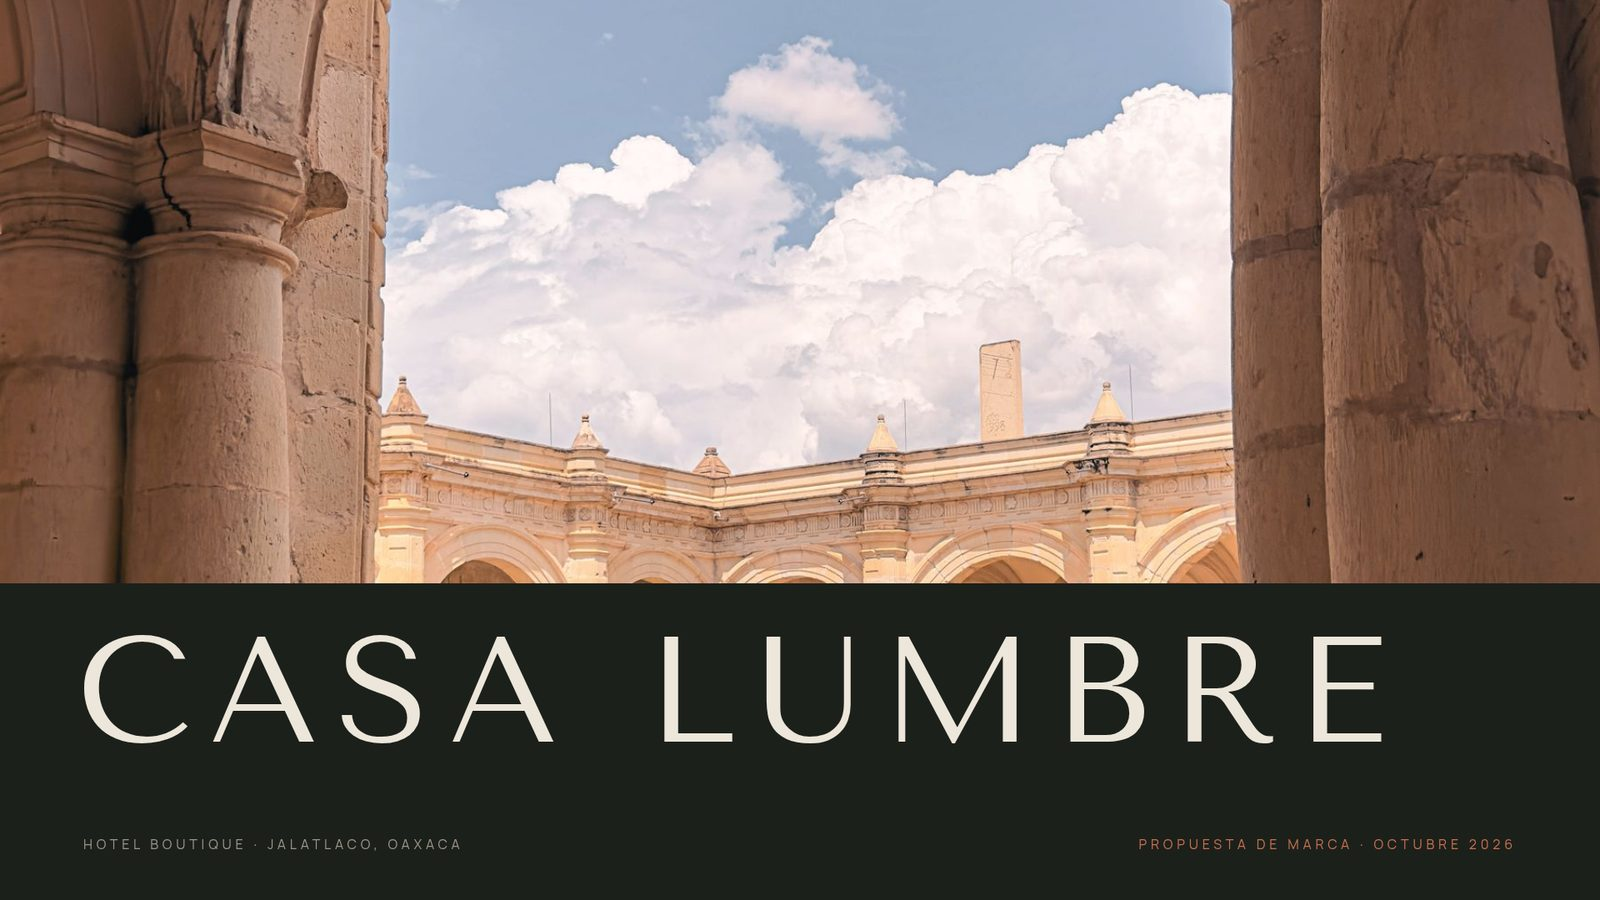
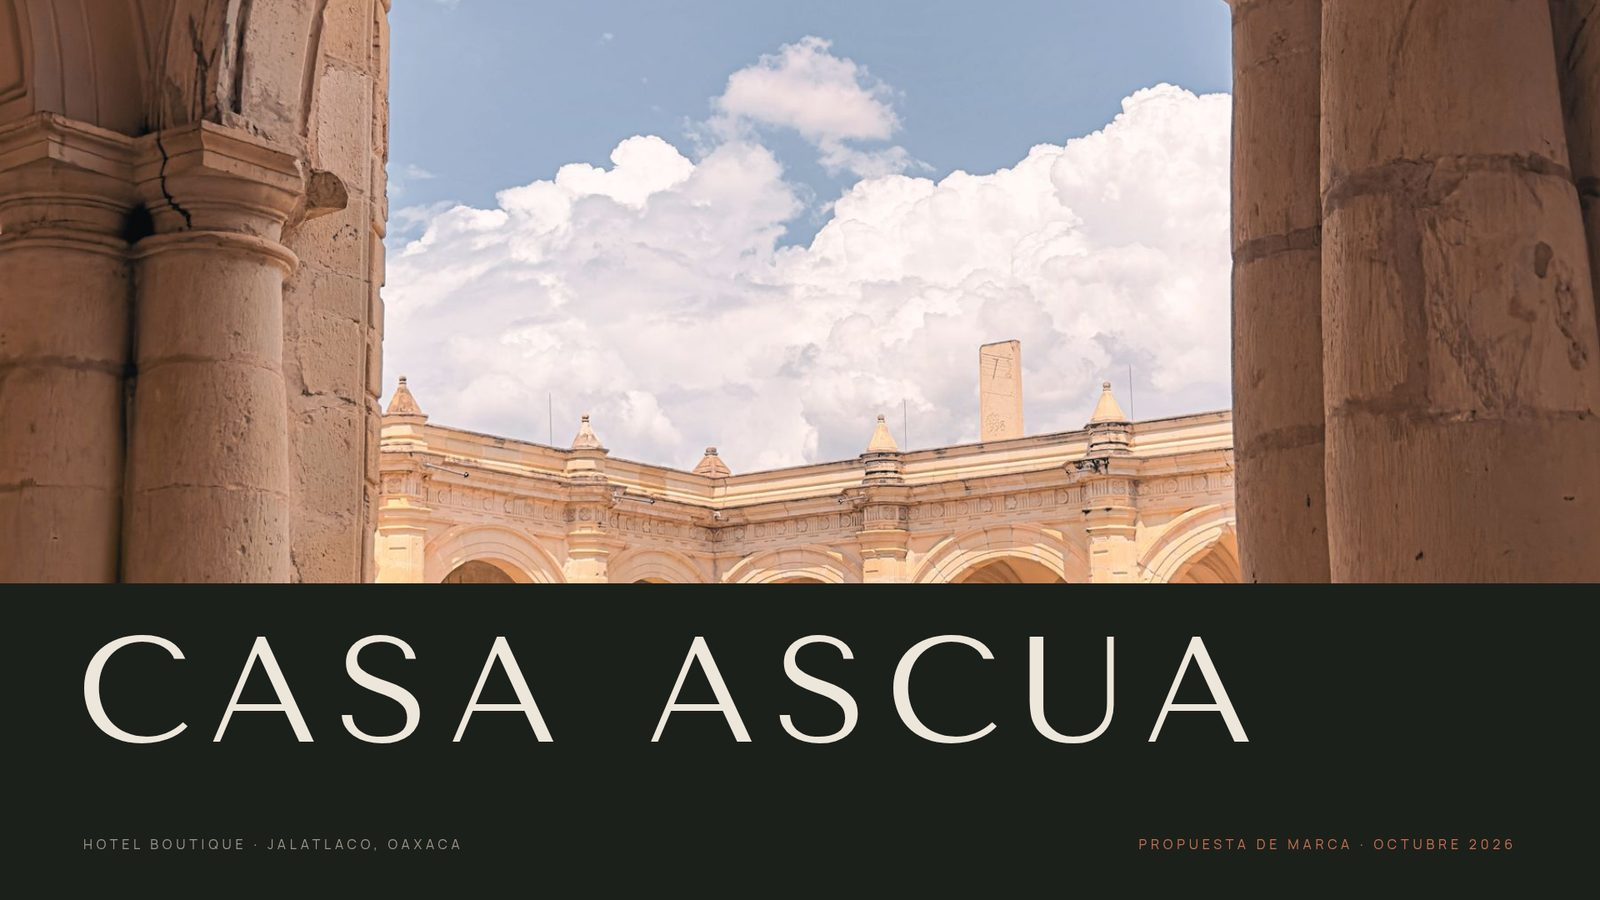
Update portfolio case slides and work page.
Replace img/cases C and E slides and work.html with the latest site build.

Changed region(s): [[0.4062, 0.6844, 0.875, 0.84]]

diff --git a/work.html b/work.html
@@ -83,7 +83,7 @@
 <section class="modal" id="p16"><span class="cnt" aria-hidden="true"></span><div class="mbox"><a class="close" href="#work">Close ✕</a><p class="lbl">(17) Project</p><h3>Manifiestos, visiones de la arquitectura</h3><dl><dt>Role</dt><dd>Editorial design</dd><dt>Client / Publisher</dt><dd>UDLAP</dd><dt>Year</dt><dd>2021</dd></dl><p class="desc">A collective “manifesto of manifestos”: texts between reflection and practice by architects, academics and researchers. Authors: Eduardo Gutiérrez Juárez, Melissa Schumacher González, Anne Kristiina Kurjenoja Lounassaari.</p><div class="gal"><div class="ph tall"><span>Project images to be added</span></div></div></div></section>
 <section class="modal case-m" id="c0"><span class="cnt" aria-hidden="true"></span><div class="mbox"><a class="close" href="#presentations">Close ✕</a><p class="lbl">Presentation case study</p><h3>Entering Mexico, one region at a time</h3><dl><dt>Client</dt><dd>Norvale Foods × Ashcombe Lane Partners</dd><dt>Industry</dt><dd>Consumer goods · Market entry</dd><dt>Deck</dt><dd>Board discussion document</dd><dt>Role</dt><dd>Presentation design</dd></dl><div class="cs3"><div><h4>Challenge</h4><p>A premium pantry brand&#x27;s board wanted to launch across all of Mexico at once. The analysis behind the deck pointed the other way: premium demand is concentrated, and going it alone would be slow and capital-heavy.</p></div><div><h4>Approach</h4><p>A classic editorial deck — Cormorant Garamond and Inter on cream, black and olive — that leads with three ideas, then walks the board through a four-phase roadmap (Prove, Expand, Scale, Lead), a single-photo divider and a regional comparison table.</p></div><div><h4>Outcome</h4><p>The story is built to one decision: approve a phased entry with a distribution partner. In the deck&#x27;s narrative, three metros hold 61% of the premium market and a partner cuts time-to-shelf from 22 to 9 months.</p></div></div><div class="gal"><img src="img/cases/A1.jpg" alt="Entering Mexico, one region at a time — slide 1" loading="lazy"><img src="img/cases/A2.jpg" alt="Entering Mexico, one region at a time — slide 2" loading="lazy"><img src="img/cases/A3.jpg" alt="Entering Mexico, one region at a time — slide 3" loading="lazy"><img src="img/cases/A4.jpg" alt="Entering Mexico, one region at a time — slide 4" loading="lazy"><img src="img/cases/A5.jpg" alt="Entering Mexico, one region at a time — slide 5" loading="lazy"></div><ul class="credits mono"><li>A1 — <a href="https://www.pexels.com/photo/white-building-wall-15941894/" target="_blank" rel="noopener">Dante Muñoz</a> / Pexels</li><li>A4 — <a href="https://www.pexels.com/photo/building-facade-with-balconies-15573067/" target="_blank" rel="noopener">Jonathan Santiago</a> / Pexels</li></ul></div></section>
 <section class="modal case-m" id="c1"><span class="cnt" aria-hidden="true"></span><div class="mbox"><a class="close" href="#presentations">Close ✕</a><p class="lbl">Presentation case study</p><h3>Annual Report 2025</h3><dl><dt>Client</dt><dd>Fenwyck Trust</dd><dt>Industry</dt><dd>Philanthropy · Libraries</dd><dt>Deck</dt><dd>Annual report for donors</dd><dt>Role</dt><dd>Presentation design</dd></dl><div class="cs3"><div><h4>Challenge</h4><p>A foundation that funds community libraries had its best year yet and needed a report for donors and partners that felt clear and confident — not like a charity brochure.</p></div><div><h4>Approach</h4><p>A Swiss/modern system: Inter Tight only, white, black and a muted red, with a visible six-column grid. Big numbers first, a ten-year giving chart, one library story with a librarian&#x27;s quote, and a use-of-funds breakdown with next year&#x27;s goals.</p></div><div><h4>Outcome</h4><p>A report that reads in a minute and holds up on a second look. Within the deck&#x27;s story: 412 libraries in 9 countries, 1.8M books in circulation and $12.4M granted in 2025.</p></div></div><div class="gal"><img src="img/cases/B1.jpg" alt="Annual Report 2025 — slide 1" loading="lazy"><img src="img/cases/B2.jpg" alt="Annual Report 2025 — slide 2" loading="lazy"><img src="img/cases/B3.jpg" alt="Annual Report 2025 — slide 3" loading="lazy"><img src="img/cases/B4.jpg" alt="Annual Report 2025 — slide 4" loading="lazy"><img src="img/cases/B5.jpg" alt="Annual Report 2025 — slide 5" loading="lazy"></div><ul class="credits mono"><li>B1 — <a href="https://www.pexels.com/photo/geometric-marble-shelf-with-books-and-decorative-vase-4207791/" target="_blank" rel="noopener">Kaboompics</a> / Pexels</li><li>B4 — <a href="https://www.pexels.com/photo/books-chairs-interior-library-6333736/" target="_blank" rel="noopener">cottonbro studio</a> / Pexels</li><li>B4 — <a href="https://www.pexels.com/photo/young-girl-reading-a-book-in-a-library-36859107/" target="_blank" rel="noopener">Thang Nguyen</a> / Pexels</li></ul></div></section>
-<section class="modal case-m" id="c2"><span class="cnt" aria-hidden="true"></span><div class="mbox"><a class="close" href="#presentations">Close ✕</a><p class="lbl">Presentation case study</p><h3>Brand proposal</h3><dl><dt>Client</dt><dd>Casa Ascua</dd><dt>Industry</dt><dd>Hospitality · Boutique hotel</dd><dt>Deck</dt><dd>Branding proposal</dd><dt>Role</dt><dd>Presentation design</dd></dl><div class="cs3"><div><h4>Challenge</h4><p>A 12-room 19th-century house in Jalatlaco, Oaxaca, reopening in April 2027 under a forgettable name, competing on price and depending on booking platforms.</p></div><div><h4>Approach</h4><p>A dark, contemporary deck — Tenor Sans and Manrope on near-black green, clay and cream — that moves from concept (&quot;the fire is shared, cared for and inherited&quot;) to the challenge in numbers, four guest moments, and a clear scope, timeline and investment.</p></div><div><h4>Outcome</h4><p>Designed to get owners to approve scope and budget in one meeting: five deliverables over 16 weeks, with the brand story doing the selling. Figures (68% occupancy, 74% via platforms) are part of the brief.</p></div></div><div class="gal"><img src="img/cases/C1.jpg" alt="Brand proposal — slide 1" loading="lazy"><img src="img/cases/C2.jpg" alt="Brand proposal — slide 2" loading="lazy"><img src="img/cases/C3.jpg" alt="Brand proposal — slide 3" loading="lazy"><img src="img/cases/C4.jpg" alt="Brand proposal — slide 4" loading="lazy"><img src="img/cases/C5.jpg" alt="Brand proposal — slide 5" loading="lazy"></div><ul class="credits mono"><li>C1 — <a href="https://www.pexels.com/photo/architecture-with-arcades-on-a-sunny-day-18620515/" target="_blank" rel="noopener">Diego Rendon</a> / Pexels</li><li>C2 — <a href="https://www.pexels.com/photo/historic-courtyard-of-santo-domingo-in-oaxaca-36944189/" target="_blank" rel="noopener">Diego Martinez</a> / Pexels</li><li>C4 — <a href="https://www.pexels.com/photo/window-in-hotel-bedroom-5475923/" target="_blank" rel="noopener">Egor Kunovsky</a> / Pexels</li></ul></div></section>
+<section class="modal case-m" id="c2"><span class="cnt" aria-hidden="true"></span><div class="mbox"><a class="close" href="#presentations">Close ✕</a><p class="lbl">Presentation case study</p><h3>Brand proposal</h3><dl><dt>Client</dt><dd>Casa Ascua</dd><dt>Industry</dt><dd>Hospitality · Boutique hotel</dd><dt>Deck</dt><dd>Branding proposal</dd><dt>Role</dt><dd>Presentation design</dd></dl><div class="cs3"><div><h4>Challenge</h4><p>A 12-room 19th-century house in Jalatlaco, Oaxaca, reopening in April 2027 under a forgettable name, competing on price and depending on booking platforms.</p></div><div><h4>Approach</h4><p>A dark, contemporary deck — Tenor Sans and Manrope on near-black green, clay and cream — that moves from concept (&quot;here the ember never goes out: it is shared, cared for and inherited&quot;) to the challenge in numbers, four guest moments, and a clear scope, timeline and investment.</p></div><div><h4>Outcome</h4><p>Designed to get owners to approve scope and budget in one meeting: five deliverables over 16 weeks, with the brand story doing the selling. Figures (68% occupancy, 74% via platforms) are part of the brief.</p></div></div><div class="gal"><img src="img/cases/C1.jpg" alt="Brand proposal — slide 1" loading="lazy"><img src="img/cases/C2.jpg" alt="Brand proposal — slide 2" loading="lazy"><img src="img/cases/C3.jpg" alt="Brand proposal — slide 3" loading="lazy"><img src="img/cases/C4.jpg" alt="Brand proposal — slide 4" loading="lazy"><img src="img/cases/C5.jpg" alt="Brand proposal — slide 5" loading="lazy"></div><ul class="credits mono"><li>C1 — <a href="https://www.pexels.com/photo/architecture-with-arcades-on-a-sunny-day-18620515/" target="_blank" rel="noopener">Diego Rendon</a> / Pexels</li><li>C2 — <a href="https://www.pexels.com/photo/historic-courtyard-of-santo-domingo-in-oaxaca-36944189/" target="_blank" rel="noopener">Diego Martinez</a> / Pexels</li><li>C4 — <a href="https://www.pexels.com/photo/window-in-hotel-bedroom-5475923/" target="_blank" rel="noopener">Egor Kunovsky</a> / Pexels</li></ul></div></section>
 <section class="modal case-m" id="c3"><span class="cnt" aria-hidden="true"></span><div class="mbox"><a class="close" href="#presentations">Close ✕</a><p class="lbl">Presentation case study</p><h3>The Dune Collection</h3><dl><dt>Client</dt><dd>Ardel Ceramics</dd><dt>Industry</dt><dd>Craft · Home goods</dd><dt>Deck</dt><dd>Pre-sale deck for retailers</dd><dt>Role</dt><dd>Presentation design</dd></dl><div class="cs3"><div><h4>Challenge</h4><p>A hand-thrown stoneware studio in Porto launching its first collection to multi-brand stores — without losing its handmade character or competing on price.</p></div><div><h4>Approach</h4><p>A light geometric sans (Outfit) over large fields of deep blue, stone and sand. One bold statement (&quot;Made slower.&quot;), the six pieces with retail prices and glazes, a year-one forecast by channel, and dated next steps.</p></div><div><h4>Outcome</h4><p>A deck that ends with a clear ask: confirm opening orders before the deadline. In the deck&#x27;s story, 2,600 pre-orders and letters of intent from 14 stores support a 12,000-piece first year.</p></div></div><div class="gal"><img src="img/cases/D1.jpg" alt="The Dune Collection — slide 1" loading="lazy"><img src="img/cases/D2.jpg" alt="The Dune Collection — slide 2" loading="lazy"><img src="img/cases/D3.jpg" alt="The Dune Collection — slide 3" loading="lazy"><img src="img/cases/D4.jpg" alt="The Dune Collection — slide 4" loading="lazy"><img src="img/cases/D5.jpg" alt="The Dune Collection — slide 5" loading="lazy"></div><ul class="credits mono"><li>D1 — <a href="https://www.pexels.com/photo/leaf-in-a-handmade-vase-7302773/" target="_blank" rel="noopener">Cup of Couple</a> / Pexels</li><li>D2 — <a href="https://www.pexels.com/photo/elegant-minimalist-ceramic-vases-on-display-31493660/" target="_blank" rel="noopener">Raymond Petrik</a> / Pexels</li><li>D3 — <a href="https://www.pexels.com/photo/clay-vases-set-on-stone-table-17053588/" target="_blank" rel="noopener">Pexels</a> / Pexels</li></ul></div></section>
 <section class="modal case-m" id="c4"><span class="cnt" aria-hidden="true"></span><div class="mbox"><a class="close" href="#presentations">Close ✕</a><p class="lbl">Presentation case study</p><h3>Annual programme 2027</h3><dl><dt>Client</dt><dd>Museo Cerro Alto</dd><dt>Industry</dt><dd>Culture · Museum</dd><dt>Deck</dt><dd>Board proposal</dd><dt>Role</dt><dd>Presentation design</dd></dl><div class="cs3"><div><h4>Challenge</h4><p>An art museum in Monterrey whose audience growth slowed; the board asked for a plan to reach people who have never visited.</p></div><div><h4>Approach</h4><p>A light editorial deck — Newsreader serif with italics and IBM Plex Mono labels, sand and ink with no accent colour. A full-bleed photo statement (&quot;A museum isn&#x27;t visited: it&#x27;s inhabited&quot;), four exhibitions across the year, an audience chart and a budget split with key dates.</p></div><div><h4>Outcome</h4><p>Built for a board vote on programme and budget. Within the deck&#x27;s story, the goal is 110k visitors in 2027 (+17%) on an MXN 18.5M budget, with free Sundays as the headline move.</p></div></div><div class="gal"><img src="img/cases/E1.jpg" alt="Annual programme 2027 — slide 1" loading="lazy"><img src="img/cases/E2.jpg" alt="Annual programme 2027 — slide 2" loading="lazy"><img src="img/cases/E3.jpg" alt="Annual programme 2027 — slide 3" loading="lazy"><img src="img/cases/E4.jpg" alt="Annual programme 2027 — slide 4" loading="lazy"><img src="img/cases/E5.jpg" alt="Annual programme 2027 — slide 5" loading="lazy"></div><ul class="credits mono"><li>E1 — <a href="https://www.pexels.com/photo/exhibition-installation-in-a-white-interior-with-lamps-11892571/" target="_blank" rel="noopener">Erika Ortiz</a> / Pexels</li><li>E2 — <a href="https://www.pexels.com/photo/hall-in-an-art-gallery-17325394/" target="_blank" rel="noopener">Andrea De Santis</a> / Pexels</li></ul></div></section>
 <script>(function(){var T=["cream","white","black","blue"],C={cream:"#efebe3",white:"#fff",black:"#0b0b0b",blue:"#1f3bff"},b=document.querySelector(".tg"),r=document.documentElement;function n(){return T[(T.indexOf(r.dataset.theme)+1)%4]}function s(){b.title="Next: "+n()}s();b.onclick=function(){var t=n();r.dataset.theme=t;localStorage.setItem("gp-theme",t);s()}})()</script><script src="main.js" defer></script><div id="cur" aria-hidden="true"><i></i><b>VIEW</b></div></body></html>
